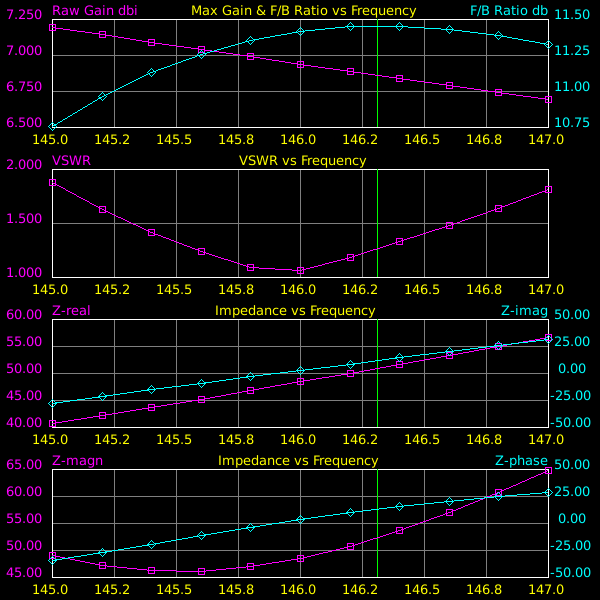
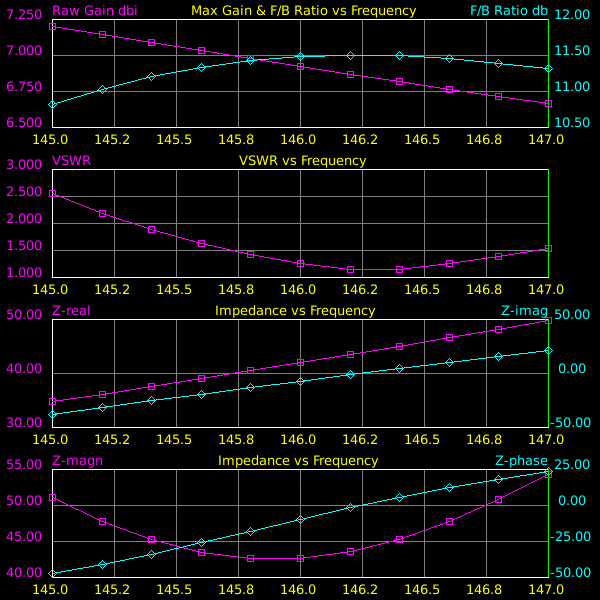
after tweaking lengths... this seems optimal

diff --git a/2m-2el-146.310.py b/2m-2el-146.310.py
@@ -98,7 +98,7 @@ targetMHz           = 146.310
 velocityFactor      = 0.937   # This is what seems to work from trial and error simulations with 1/8" wires
 quarterWavelength   = m((300.0 * 0.937) / targetMHz) / 4.0 
 arcRadiusC          = inch(0.25)
-deY                 = inch(5.8)
+deY                 = inch(5.3)
 deTopZ              = refZ
 bLength             = ((2.0*quarterWavelength) - (math.pi*arcRadiusC)) / 2.0
 
